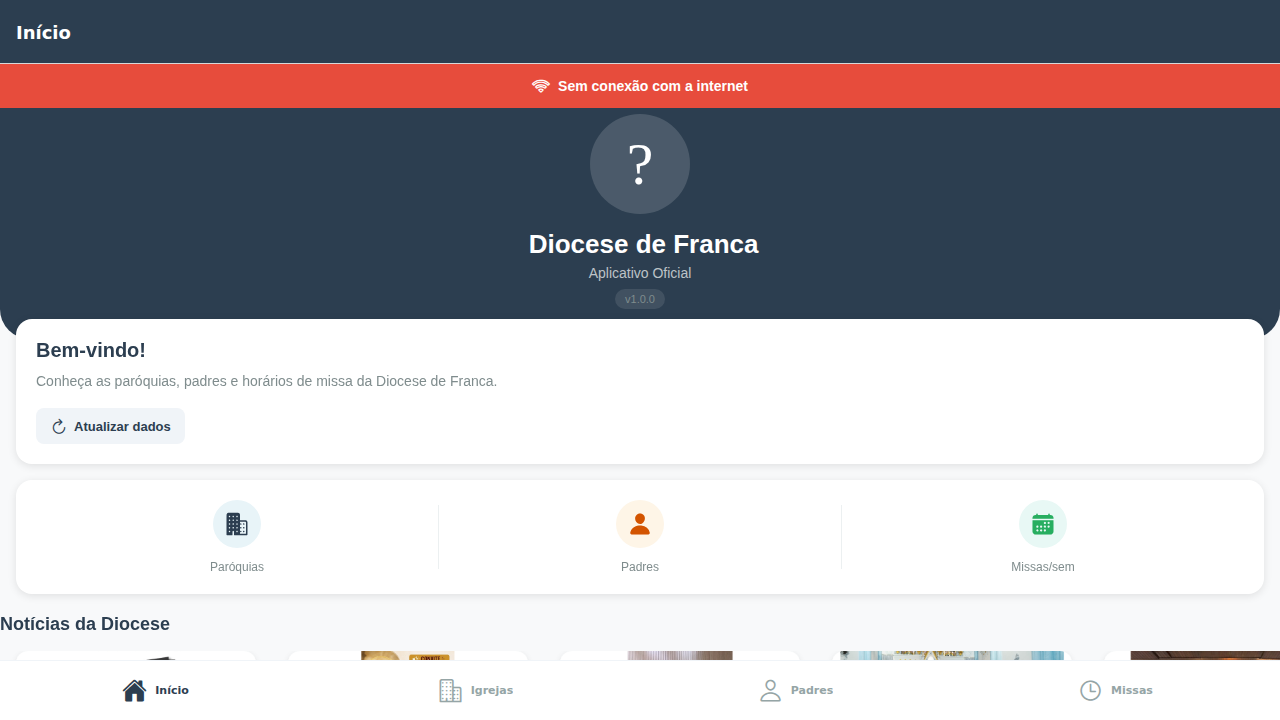
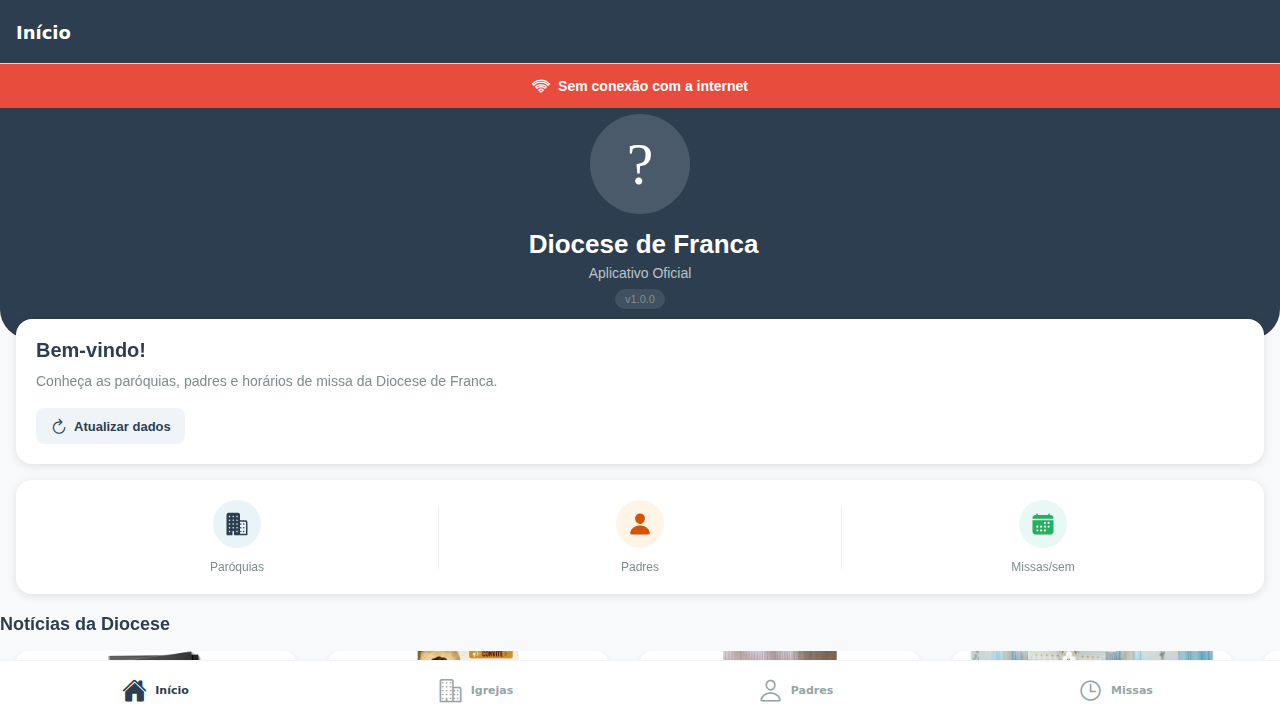
feat: improve scraper, mobile UI, and E2E tests (#11)
- Enhanced backend scraper to fetch news descriptions.
- Added description field to news cards and improved empty states in `HomeScreen`.
- Implemented one-time local welcome notification using `AsyncStorage`.
- Ensured Playwright E2E tests take screenshots of Home, Churches, and Masses screens.
- Updated `README.md` and `AGENTS.md` to document new features and add screenshots.

Changed region(s): [[0.4688, 0.8861, 1.0, 0.9167], [0.2812, 0.8861, 0.4062, 0.9167], [0.0938, 0.8861, 0.1562, 0.9167]]

diff --git a/mobile/src/screens/HomeScreen.js b/mobile/src/screens/HomeScreen.js
@@ -175,6 +175,9 @@ export default function HomeScreen({ navigation }) {
                   <Image source={{ uri: item.image }} style={styles.newsImage} />
                   <View style={styles.newsContent}>
                     <Text style={styles.newsTitle} numberOfLines={2}>{item.title}</Text>
+                    {item.description ? (
+                      <Text style={styles.newsDescription} numberOfLines={3}>{item.description}</Text>
+                    ) : null}
                   </View>
                 </TouchableOpacity>
               )}
@@ -183,6 +186,10 @@ export default function HomeScreen({ navigation }) {
             <View style={styles.emptyNewsContainer}>
               <Ionicons name="alert-circle-outline" size={32} color="#95a5a6" />
               <Text style={styles.emptyNewsText}>Nenhuma notícia encontrada no momento.</Text>
+              <TouchableOpacity style={styles.refreshButtonSmall} onPress={fetchNews}>
+                <Ionicons name="refresh" size={16} color="#fff" />
+                <Text style={styles.refreshButtonSmallText}>Tentar Novamente</Text>
+              </TouchableOpacity>
             </View>
           )}
         </View>
@@ -514,7 +521,7 @@ const styles = StyleSheet.create({
   newsCard: {
     backgroundColor: '#fff',
     borderRadius: 12,
-    width: 240,
+    width: 280,
     elevation: 3,
     shadowColor: '#000',
     shadowOffset: { width: 0, height: 2 },
@@ -538,6 +545,12 @@ const styles = StyleSheet.create({
     color: '#2c3e50',
     lineHeight: 20,
   },
+  newsDescription: {
+    fontSize: 12,
+    color: '#7f8c8d',
+    marginTop: 4,
+    lineHeight: 18,
+  },
   loadingText: {
     paddingHorizontal: 16,
     color: '#7f8c8d',
@@ -560,6 +573,21 @@ const styles = StyleSheet.create({
     color: '#7f8c8d',
     fontSize: 14,
     textAlign: 'center',
+    marginBottom: 12,
+  },
+  refreshButtonSmall: {
+    flexDirection: 'row',
+    alignItems: 'center',
+    backgroundColor: '#2c3e50',
+    paddingHorizontal: 16,
+    paddingVertical: 8,
+    borderRadius: 8,
+    gap: 6,
+  },
+  refreshButtonSmallText: {
+    color: '#fff',
+    fontSize: 13,
+    fontWeight: '600',
   },
   quickAccess: {
     paddingHorizontal: 16,

diff --git a/mobile/App.js b/mobile/App.js
@@ -13,7 +13,29 @@ Notifications.setNotificationHandler({
   }),
 });
 
+import AsyncStorage from '@react-native-async-storage/async-storage';
+
 export default function App() {
+  React.useEffect(() => {
+    async function requestPermissionsAndWelcome() {
+      const { status } = await Notifications.requestPermissionsAsync();
+      if (status === 'granted') {
+        const hasSeenWelcome = await AsyncStorage.getItem('hasSeenWelcomeNotification');
+        if (!hasSeenWelcome) {
+          await Notifications.scheduleNotificationAsync({
+            content: {
+              title: 'Bem-vindo!',
+              body: 'Que a paz esteja com você.',
+            },
+            trigger: { seconds: 2 },
+          });
+          await AsyncStorage.setItem('hasSeenWelcomeNotification', 'true');
+        }
+      }
+    }
+    requestPermissionsAndWelcome();
+  }, []);
+
   return (
     <SafeAreaProvider>
       <ToastProvider>

diff --git a/backend/scraper.js b/backend/scraper.js
@@ -27,6 +27,9 @@ const scrapeNews = async () => {
         const imgTag = parentLi.find('.scale_image_container img.scale_image');
         let image = imgTag.attr('src');
 
+        const descriptionElement = $(el).find('p').first();
+        const description = descriptionElement.text().trim();
+
         if (title && link && link.includes('noticia_detalhe') && image) {
             // Make link absolute
             const fullLink = `https://diocesefranca.org.br/${link}`;
@@ -35,7 +38,7 @@ const scrapeNews = async () => {
             // Check for duplicates
             const isDuplicate = news.some(n => n.link === fullLink);
             if (!isDuplicate) {
-                 news.push({ id: news.length + 1, title, link: fullLink, image: fullImage });
+                 news.push({ id: news.length + 1, title, description, link: fullLink, image: fullImage });
             }
         }
     });

diff --git a/mobile/e2e/app.spec.js b/mobile/e2e/app.spec.js
@@ -37,4 +37,17 @@ test.describe('Diocese App E2E', () => {
     const screenshotPath = path.join(__dirname, '../screenshots/churches_full.png');
     await page.screenshot({ path: screenshotPath, fullPage: true });
   });
+
+  test('should display masses screen and capture screenshot', async ({ page }) => {
+    await expect(page.locator('text=Diocese de Franca').first()).toBeVisible();
+
+    const massesButton = page.locator('text=Consulte os horários por dia da semana');
+    await massesButton.click();
+
+    // Wait for the API to load
+    await page.waitForTimeout(3000);
+
+    const screenshotPath = path.join(__dirname, '../screenshots/masses_full.png');
+    await page.screenshot({ path: screenshotPath, fullPage: true });
+  });
 });

diff --git a/README.md b/README.md
@@ -29,8 +29,8 @@ Aplicativo completo para a Diocese de Franca com backend API REST e app React Na
 
 ### Mobile
 - Deploy web 100% funcional no Netlify com Metro bundler suportando `react-native-web`
-- Notificações locais automáticas e agendadas diariamente (Leitura do Evangelho) via `expo-notifications` no HomeScreen
-- Aprimoramentos de UI/UX para Empty States (Mensagem "Bem-vindo, Fiel!" e telas sem dados com ícones claros)
+- Notificações locais automáticas de boas-vindas na inicialização do app (`App.js`) e agendadas diariamente via `expo-notifications` no `HomeScreen`
+- Aprimoramentos de UI/UX: Renderização de descrições nas notícias do `HomeScreen`, aumento da largura dos cards e melhoria do Empty State com botão de "Tentar Novamente"
 - Skeletons Loaders (Animação Shimmer) em diversas áreas como Notícias e Listas
 - Correção de duplicação de variáveis na renderização do banner offline
 - Pull-to-refresh com feedback visual
@@ -44,7 +44,7 @@ Aplicativo completo para a Diocese de Franca com backend API REST e app React Na
 - Testes E2E com Playwright para verificação no ambiente web
 
 ### Backend
-- Scraper autônomo aprimorado (`backend/scraper.js`) prevenindo duplicidades e falhas nas imagens/textos
+- Scraper autônomo aprimorado (`backend/scraper.js`) extraindo descrições das notícias, prevenindo duplicidades por checagem de link e falhas nas imagens/textos
 - Endpoint de health check `/api/health`
 - Compressão gzip automática
 - Helmet.js para headers de segurança
@@ -242,6 +242,9 @@ O app possui interface moderna com:
 
 **Igrejas Screen**
 ![Igrejas Screen](mobile/screenshots/churches_full.png)
+
+**Missas Screen**
+![Missas Screen](mobile/screenshots/masses_full.png)
 
 ## Licença
 

diff --git a/AGENTS.md b/AGENTS.md
@@ -84,7 +84,7 @@ These guidelines are designed to ensure the consistent, efficient, and high-qual
 
 ## 12. App Features & Services
 
-*   **Scraper**: A scraper uses `axios` and `cheerio` to extract the latest Diocese data (`backend/scraper.js`). Updates here must be parsed carefully according to the live DOM. Note: When scraping the website, it uses selectors like `.post_text` and `.scale_image_container` to fetch news cards reliably from the markup without duplicates.
+*   **Scraper**: A scraper uses `axios` and `cheerio` to extract the latest Diocese data (`backend/scraper.js`). Updates here must be parsed carefully according to the live DOM. Note: When scraping the website, it uses selectors like `.post_text` and `.scale_image_container` to fetch news cards reliably from the markup. It now extracts title, link, image, and the description (first paragraph), and checks against duplicate links before inserting.
 *   **Web Metro Bundler**: For proper deployment on the web via Metro Bundler (e.g., Netlify), we require `react-native-web`, `react-dom`, and `@expo/metro-runtime` to be installed in the mobile directory.
 *   **Notifications**: We utilize `expo-notifications` for scheduled local notifications (e.g. Mass reminders, daily readings) in `HomeScreen` and `MassesScreen`. Note: We automatically request permission and schedule a repeating daily Liturgy reminder on app mount (`HomeScreen.js`).
 
